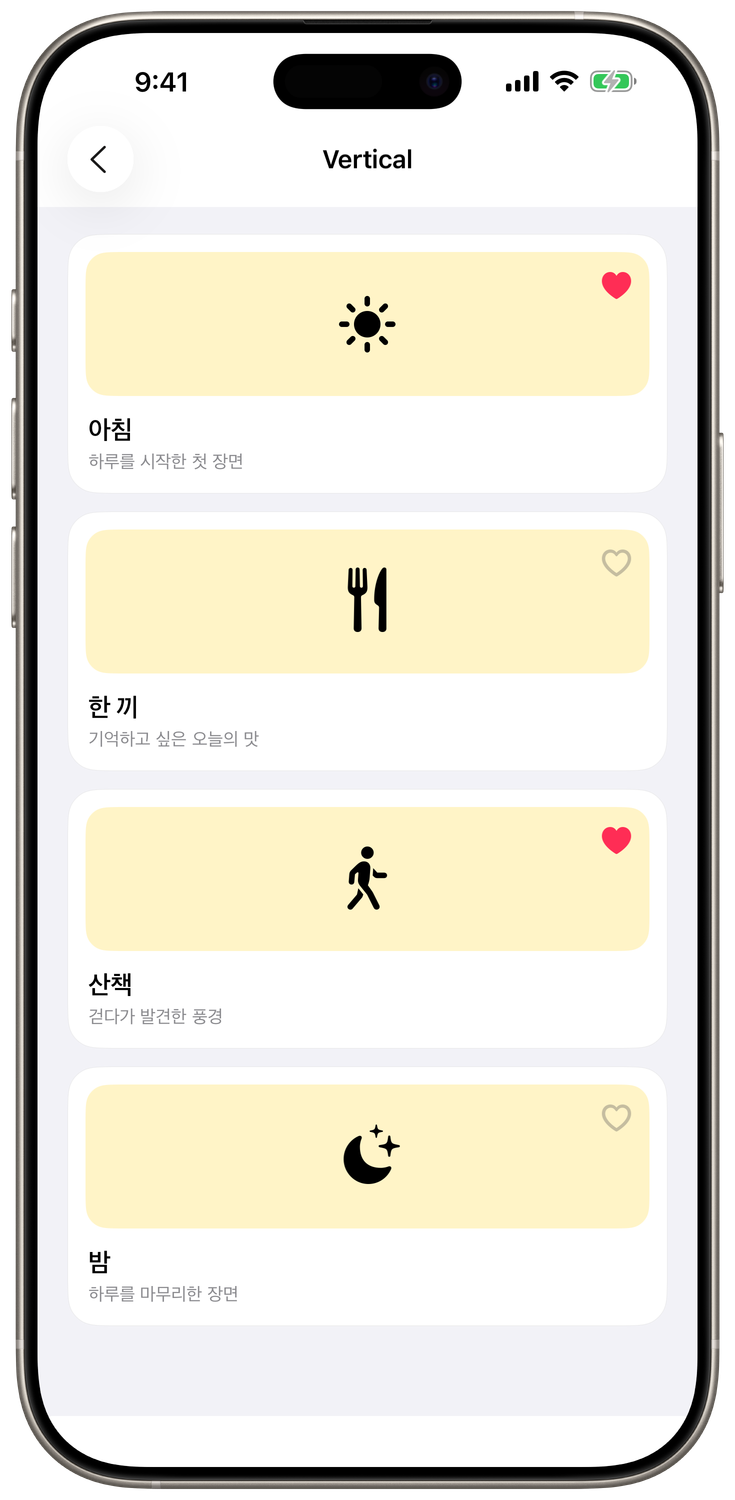
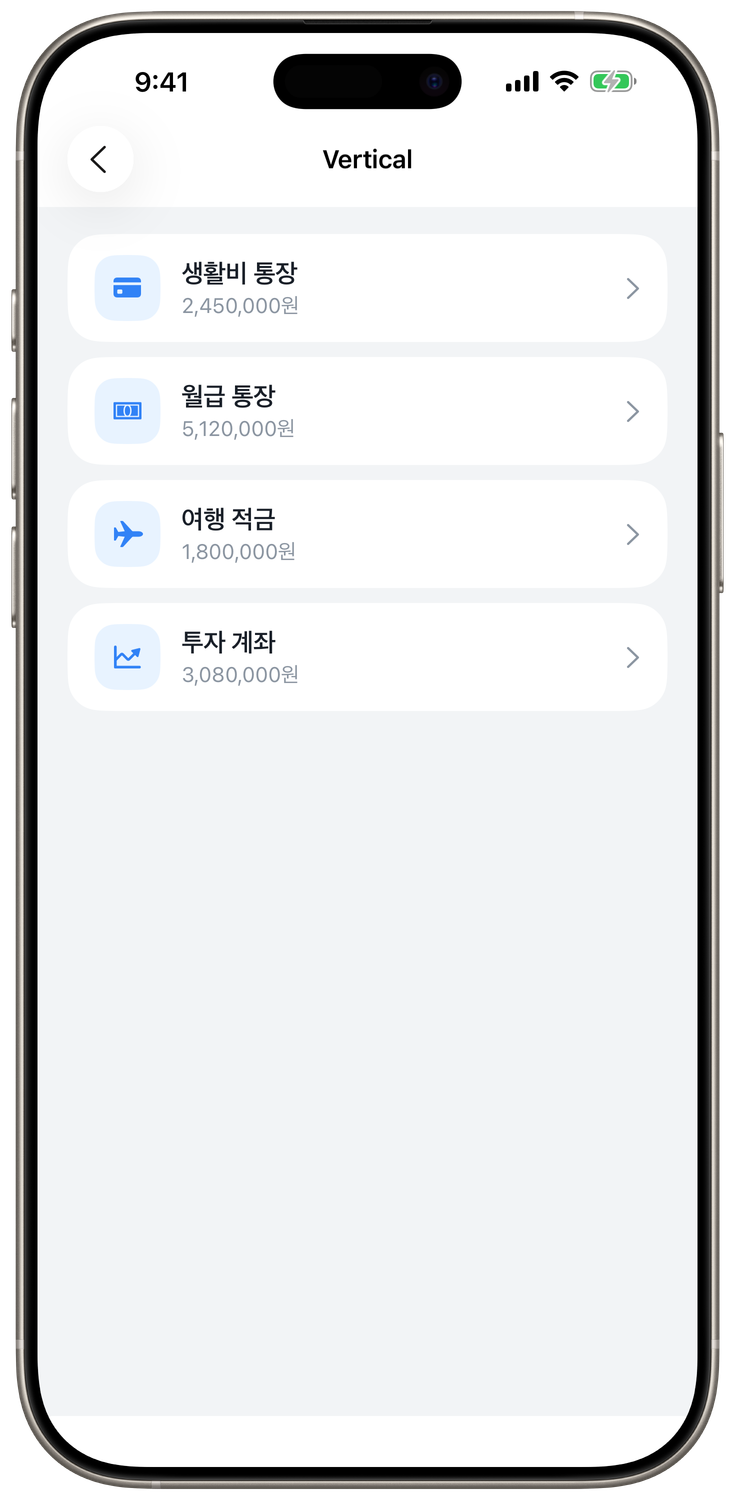
[#59] ReadmeCapture 예제를 Vertical과 Grid로 정리

diff --git a/Projects/Shared/CollectionViewAdapter/Demo/4. ReadmeCapture/0. ReadmeCaptureRoute.swift b/Projects/Shared/CollectionViewAdapter/Demo/4. ReadmeCapture/0. ReadmeCaptureRoute.swift
@@ -2,16 +2,16 @@ import SwiftUI
 
 /// README의 Source/Result와 캡처 전용 Demo 화면을 연결합니다.
 enum ReadmeCaptureRoute: String, CaseIterable, Hashable {
-    case list
     case vertical
+    case grid
     case mixedSections = "mixed-sections"
 
     var title: String {
         switch self {
-        case .list:
-            "List"
         case .vertical:
             "Vertical"
+        case .grid:
+            "Grid"
         case .mixedSections:
             "Horizontal + Vertical"
         }
@@ -19,10 +19,10 @@ enum ReadmeCaptureRoute: String, CaseIterable, Hashable {
 
     var caption: String {
         switch self {
-        case .list:
-            "하나의 Section에 기본 목록을 구성합니다"
         case .vertical:
-            "카드를 한 방향 Vertical 목록으로 배치합니다"
+            "하나의 Section에 기본 목록을 구성합니다"
+        case .grid:
+            "카드를 2열 Grid로 배치합니다"
         case .mixedSections:
             "첫 Section은 가로, 두 번째는 세로로 구성합니다"
         }
@@ -30,10 +30,10 @@ enum ReadmeCaptureRoute: String, CaseIterable, Hashable {
 
     var symbolName: String {
         switch self {
-        case .list:
-            "list.bullet"
         case .vertical:
-            "rectangle.grid.1x2.fill"
+            "list.bullet"
+        case .grid:
+            "square.grid.2x2.fill"
         case .mixedSections:
             "rectangle.3.group.fill"
         }
@@ -41,9 +41,9 @@ enum ReadmeCaptureRoute: String, CaseIterable, Hashable {
 
     var tint: Color {
         switch self {
-        case .list:
-            .blue
         case .vertical:
+            .blue
+        case .grid:
             .orange
         case .mixedSections:
             .purple
@@ -54,13 +54,13 @@ enum ReadmeCaptureRoute: String, CaseIterable, Hashable {
     @ViewBuilder
     var destination: some View {
         switch self {
-        case .list:
-            ReadmeListViewController()
+        case .vertical:
+            ReadmeVerticalViewController()
                 .toSwiftUI()
                 .readmeCaptureNavigation(title: title)
 
-        case .vertical:
-            ReadmeVerticalViewController()
+        case .grid:
+            ReadmeGridViewController()
                 .toSwiftUI()
                 .readmeCaptureNavigation(title: title)
 

diff --git a/Projects/Shared/CollectionViewAdapter/Demo/4. ReadmeCapture/2. ReadmeGridViewController.swift b/Projects/Shared/CollectionViewAdapter/Demo/4. ReadmeCapture/2. ReadmeGridViewController.swift
@@ -1,9 +1,9 @@
 import CollectionViewAdapter
 import UIKit
 
-/// 하나의 Section에 카드를 Vertical 목록으로 배치합니다.
+/// 하나의 Section에 카드를 2열 Grid로 배치합니다.
 @MainActor
-final class ReadmeVerticalViewController:
+final class ReadmeGridViewController:
     UIViewController {
     private let items: [GridDemoContentView.Item] = [
         .init(
@@ -33,6 +33,20 @@ final class ReadmeVerticalViewController:
             subtitle: "하루를 마무리한 장면",
             symbolName: "moon.stars.fill",
             isFavorite: false
+        ),
+        .init(
+            id: "nature",
+            title: "자연",
+            subtitle: "계절이 남긴 색깔",
+            symbolName: "leaf.fill",
+            isFavorite: false
+        ),
+        .init(
+            id: "coffee",
+            title: "커피",
+            subtitle: "잠깐 쉬어간 순간",
+            symbolName: "cup.and.saucer.fill",
+            isFavorite: true
         )
     ]
 
@@ -62,14 +76,17 @@ final class ReadmeVerticalViewController:
 
     private var sections: SectionModels {
         SectionModels {
-            LazySection(identifier: "vertical") {
+            LazySection(identifier: "grid") {
                 For(of: self.items) { item in
                     GridDemoComponent(item: item)
                 }
             }
             .withSectionLayout(
-                .verticalList(
-                    spacing: 12,
+                .grid(
+                    columns: 2,
+                    estimatedRowHeight: 178,
+                    interItemSpacing: 12,
+                    lineSpacing: 12,
                     contentInsets:
                         NSDirectionalEdgeInsets(
                             top: 0,

diff --git a/Projects/Shared/CollectionViewAdapter/Demo/4. ReadmeCapture/1. ReadmeVerticalViewController.swift b/Projects/Shared/CollectionViewAdapter/Demo/4. ReadmeCapture/1. ReadmeVerticalViewController.swift
@@ -1,9 +1,9 @@
 import CollectionViewAdapter
 import UIKit
 
-/// 하나의 Section에 기본 목록을 구성합니다.
+/// 하나의 Section에 기본 Vertical 목록을 구성합니다.
 @MainActor
-final class ReadmeListViewController: UIViewController {
+final class ReadmeVerticalViewController: UIViewController {
     private let accounts: [ComponentDemoAccount] = [
         .init(
             id: "daily",
@@ -57,7 +57,7 @@ final class ReadmeListViewController: UIViewController {
 
     private var sections: SectionModels {
         SectionModels {
-            LazySection(identifier: "list") {
+            LazySection(identifier: "vertical") {
                 For(of: self.accounts) { account in
                     ComponentDemoRowComponent(
                         item: .init(
